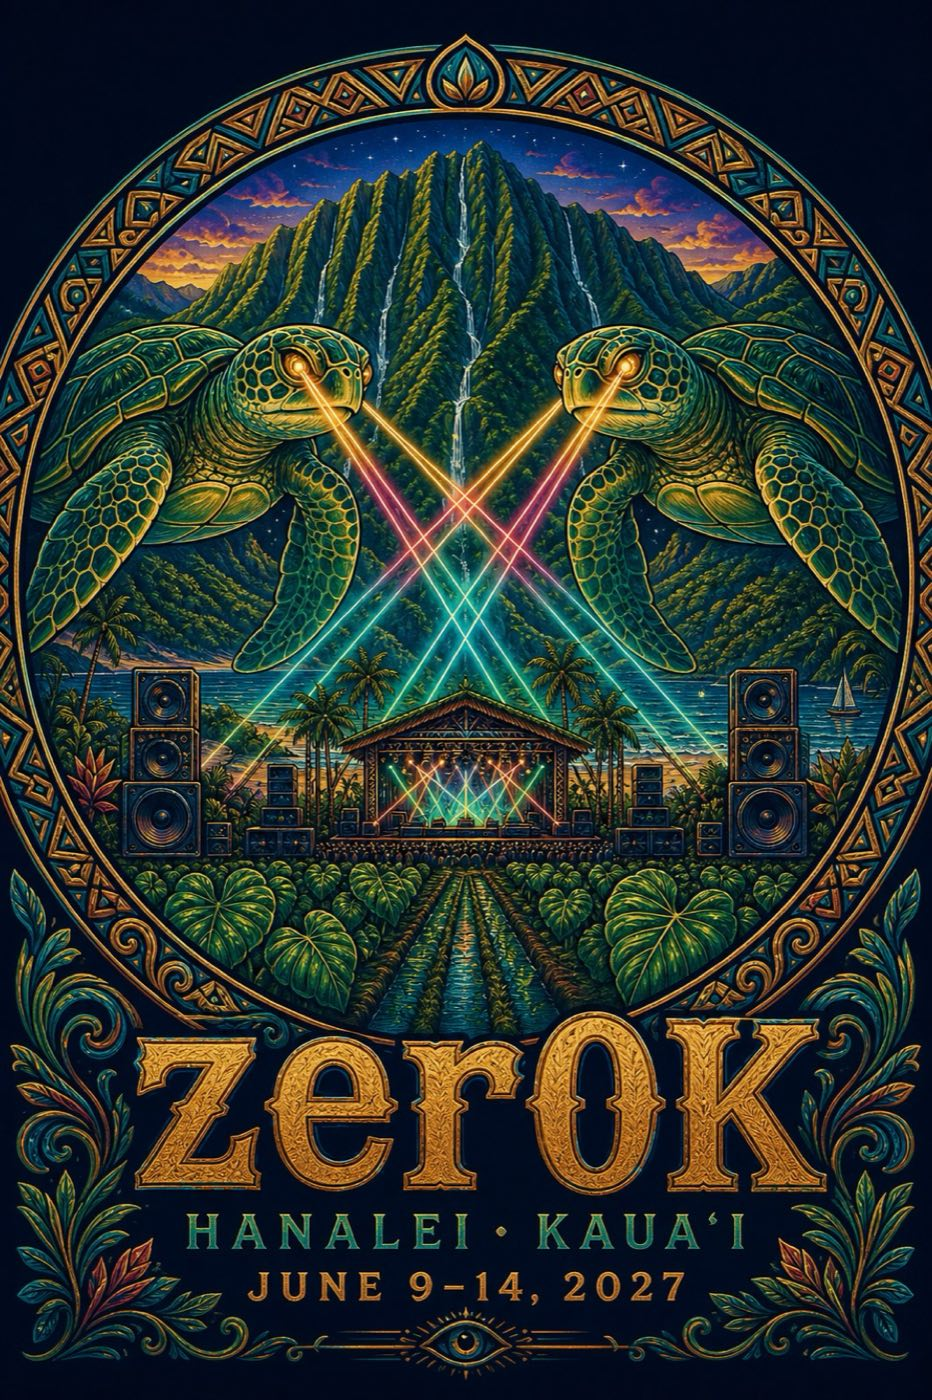
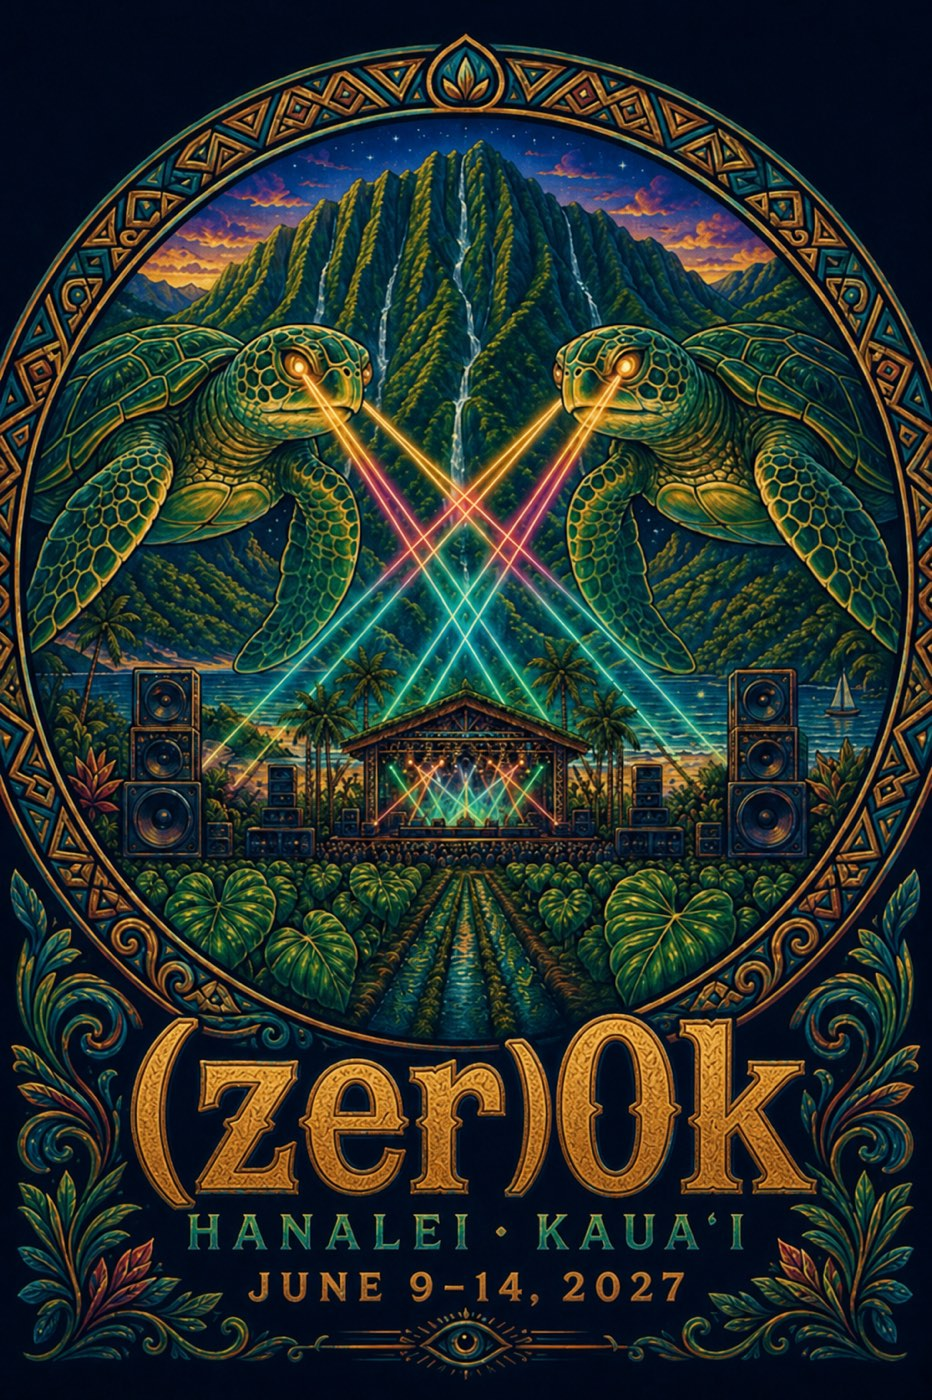
Rename the fest (zer)0k and reprint the poster title.

Changed region(s): [[0.0, 0.0307, 1.0, 0.9829], [0.6223, 0.1229, 0.6534, 0.1536]]

diff --git a/index.html b/index.html
@@ -5,12 +5,12 @@
     <meta name="viewport" content="width=device-width, initial-scale=1.0, viewport-fit=cover">
     <meta name="color-scheme" content="dark">
     <meta name="theme-color" content="#06111f">
-    <title>zer0K '27 · Hanalei, Kauaʻi</title>
-    <meta name="description" content="zer0K: an invite-only music camp at sea level. Hanalei, Kauaʻi. June 2027. Everyone jams, everyone swims, everyone cooks.">
+    <title>(zer)0k '27 · Hanalei, Kauaʻi</title>
+    <meta name="description" content="(zer)0k: an invite-only music camp at sea level. Hanalei, Kauaʻi. June 2027. Everyone jams, everyone swims, everyone cooks.">
     <meta name="robots" content="noindex">
 
     <meta property="og:type" content="website">
-    <meta property="og:title" content="zer0K '27 · Hanalei, Kauaʻi">
+    <meta property="og:title" content="(zer)0k '27 · Hanalei, Kauaʻi">
     <meta property="og:description" content="Nine thousand feet. Two thousand feet. Zero. An invite-only music camp at sea level.">
     <meta property="og:image" content="https://zerokfest.com/assets/logo.png">
     <meta property="og:image:type" content="image/png">
@@ -19,7 +19,7 @@
     <meta property="og:url" content="https://zerokfest.com/">
 
     <meta name="twitter:card" content="summary">
-    <meta property="twitter:title" content="zer0K '27 · Hanalei, Kauaʻi">
+    <meta property="twitter:title" content="(zer)0k '27 · Hanalei, Kauaʻi">
     <meta property="twitter:description" content="An invite-only music camp at sea level. June 2027.">
     <meta property="twitter:image" content="https://zerokfest.com/assets/logo.png">
 
@@ -188,8 +188,8 @@
             font-size: clamp(4rem, 12vw, 7.6rem);
             color: var(--gold);
             text-shadow: 0 2px 4px rgba(0,0,0,0.85), 2px 3px 22px rgba(0,0,0,0.75);
-            line-height: 1; letter-spacing: 6px;
-            margin-bottom: 1.15rem; text-transform: uppercase;
+            line-height: 1;             letter-spacing: 3px;
+            margin-bottom: 1.15rem; text-transform: none;
         }
         .header-content .date-span {
             display: block; font-family: var(--font-heading);
@@ -393,7 +393,7 @@
     {
         "@context": "https://schema.org",
         "@type": "Festival",
-        "name": "zer0K",
+        "name": "(zer)0k",
         "eventAttendanceMode": "https://schema.org/OfflineEventAttendanceMode",
         "description": "An invite-only music camp at sea level on Kauaʻi's North Shore. Venue and dates TBA.",
         "image": "https://zerokfest.com/assets/logo.png",
@@ -410,7 +410,7 @@
 <body>
     <nav id="navbar">
         <div class="container">
-            <a href="#home" class="logo" aria-label="zer0K June 2027">
+            <a href="#home" class="logo" aria-label="(zer)0k June 2027">
                 <img src="assets/logo-nav.png" alt="" width="44" height="44">
                 <span class="nav-date">June '27</span>
             </a>
@@ -430,7 +430,7 @@
         <div class="header-overlay"></div>
         <div class="header-content">
             <p class="concept-chip">Concept · venue and dates TBA</p>
-            <h1>zer<span class="z0">0</span>K<span class="date-span">June 2027 · Hanalei, Kauaʻi</span></h1>
+            <h1>(zer)<span class="z0">0</span>k<span class="date-span">June 2027 · Hanalei, Kauaʻi</span></h1>
             <p class="header-about-text">Nine thousand feet. Two thousand feet. Zero. An invite-only music camp at sea level — everyone jams, everyone swims, everyone cooks.</p>
             <div class="header-buttons">
                 <a href="#interest" class="btn">Raise Your Hand</a>
@@ -444,11 +444,11 @@
             <div class="section-bg" style="background-image:url('assets/crew_pier_walk.jpg'); --pos:50% 28%;"></div>
             <div class="container">
                 <h2 class="fade-in">Sea Level</h2>
-                <p class="section-subtitle fade-in">The International Jam House Federation already has a mountain and a foothill. zer0K is the base camp — five nights on Kauaʻi's North Shore.</p>
+                <p class="section-subtitle fade-in">The International Jam House Federation already has a mountain and a foothill. (zer)0k is the base camp — five nights on Kauaʻi's North Shore.</p>
                 <div class="stat-grid fade-in">
                     <div class="stat"><div class="num">9,000 ft</div><div class="lbl">9k Fest · Cuchara, CO · August</div></div>
                     <div class="stat"><div class="num">2,000 ft</div><div class="lbl">2k Fest · Murphys, CA · Fall</div></div>
-                    <div class="stat"><div class="num">0 ft</div><div class="lbl">zer0K · Hanalei, HI · June</div></div>
+                    <div class="stat"><div class="num">0 ft</div><div class="lbl">(zer)0k · Hanalei, HI · June</div></div>
                 </div>
                 <p class="fade-in panel" style="max-width:720px;margin:0 auto;text-align:center;">If you already know 2k or 9k: same house rules, salt water. If you don't: it's a private, ticket-free music camp. Community-cooked meals, open jams, a playful competition track, and a hard rule — <em>no spectators, only participants.</em> No owned land yet. June is the working window — not a lock.</p>
             </div>
@@ -731,7 +731,7 @@
                     </a>
                     <div class="site-card sister-card">
                         <div class="site-card-bg" style="background-image:url('assets/ninek_shaka_bay.jpg'); --pos:50% 20%;"></div>
-                        <div class="site-card-content"><p class="tba">0 ft</p><div class="num">zer<span class="z0">0</span>K</div><p>You are here. Concept.</p></div>
+                        <div class="site-card-content"><p class="tba">0 ft</p><div class="num">(zer)<span class="z0">0</span>k</div><p>You are here. Concept.</p></div>
                     </div>
                 </div>
                 <p class="fade-in" style="text-align:center;"><a href="https://2kfest.com/ijhf/">International Jam House Federation</a></p>
@@ -750,7 +750,7 @@
     </div>
 
     <footer>
-        <p>&copy; <span id="current-year">2026</span> zer<span class="z0">0</span>K · <a href="https://2kfest.com/ijhf/">IJHF</a> · <a href="https://www.instagram.com/zerokfest" target="_blank" rel="noopener">@zerokfest</a></p>
+        <p>&copy; <span id="current-year">2026</span> (zer)<span class="z0">0</span>k · <a href="https://2kfest.com/ijhf/">IJHF</a> · <a href="https://www.instagram.com/zerokfest" target="_blank" rel="noopener">@zerokfest</a></p>
         <p style="margin-top:10px;"><a href="#interest" style="color:var(--text-dim);font-size:0.78rem;">Raise your hand →</a></p>
     </footer>
 
@@ -873,7 +873,7 @@
                 { src: 'assets/lanai_jam_dog.jpg', alt: 'Lanai jam with dog, concept' },
                 { src: 'assets/ninek_shaka_bay.jpg', alt: 'Shaka at the bay, concept' },
                 { src: 'assets/ninek_pier_crew.jpg', alt: 'Pier crew, concept' },
-                { src: 'assets/zerok_poster.jpg', alt: 'zer0K poster, concept' },
+                { src: 'assets/zerok_poster.jpg', alt: '(zer)0k poster, concept' },
             ],
             spring: [
                 { src: 'assets/2k/fullyard.jpg', alt: '2k yard, real' },
@@ -1028,7 +1028,7 @@
         function formBody(f) {
             const roles = [...f.querySelectorAll('input[name=role]:checked')].map(c => c.value).join(', ');
             return [
-                'zer0K interest',
+                '(zer)0k interest',
                 'Name: ' + f.name.value,
                 'Email: ' + f.email.value,
                 'Likelihood: ' + f.likely.value,
@@ -1042,7 +1042,7 @@
         form.addEventListener('submit', (e) => {
             e.preventDefault();
             const body = formBody(e.target);
-            const href = 'mailto:bgnipp@gmail.com?subject=' + encodeURIComponent('zer0K interest — ' + e.target.name.value) + '&body=' + encodeURIComponent(body);
+            const href = 'mailto:bgnipp@gmail.com?subject=' + encodeURIComponent('(zer)0k interest — ' + e.target.name.value) + '&body=' + encodeURIComponent(body);
             const fallback = document.getElementById('mail-fallback');
             document.getElementById('mail-link').href = href;
             fallback.hidden = false;

diff --git a/README.md b/README.md
@@ -1,4 +1,4 @@
-# zer0K
+# (zer)0k
 
 Invite-only sea-level music camp. Hanalei, Kauaʻi. June 2027. Venue and dates TBA.
 
